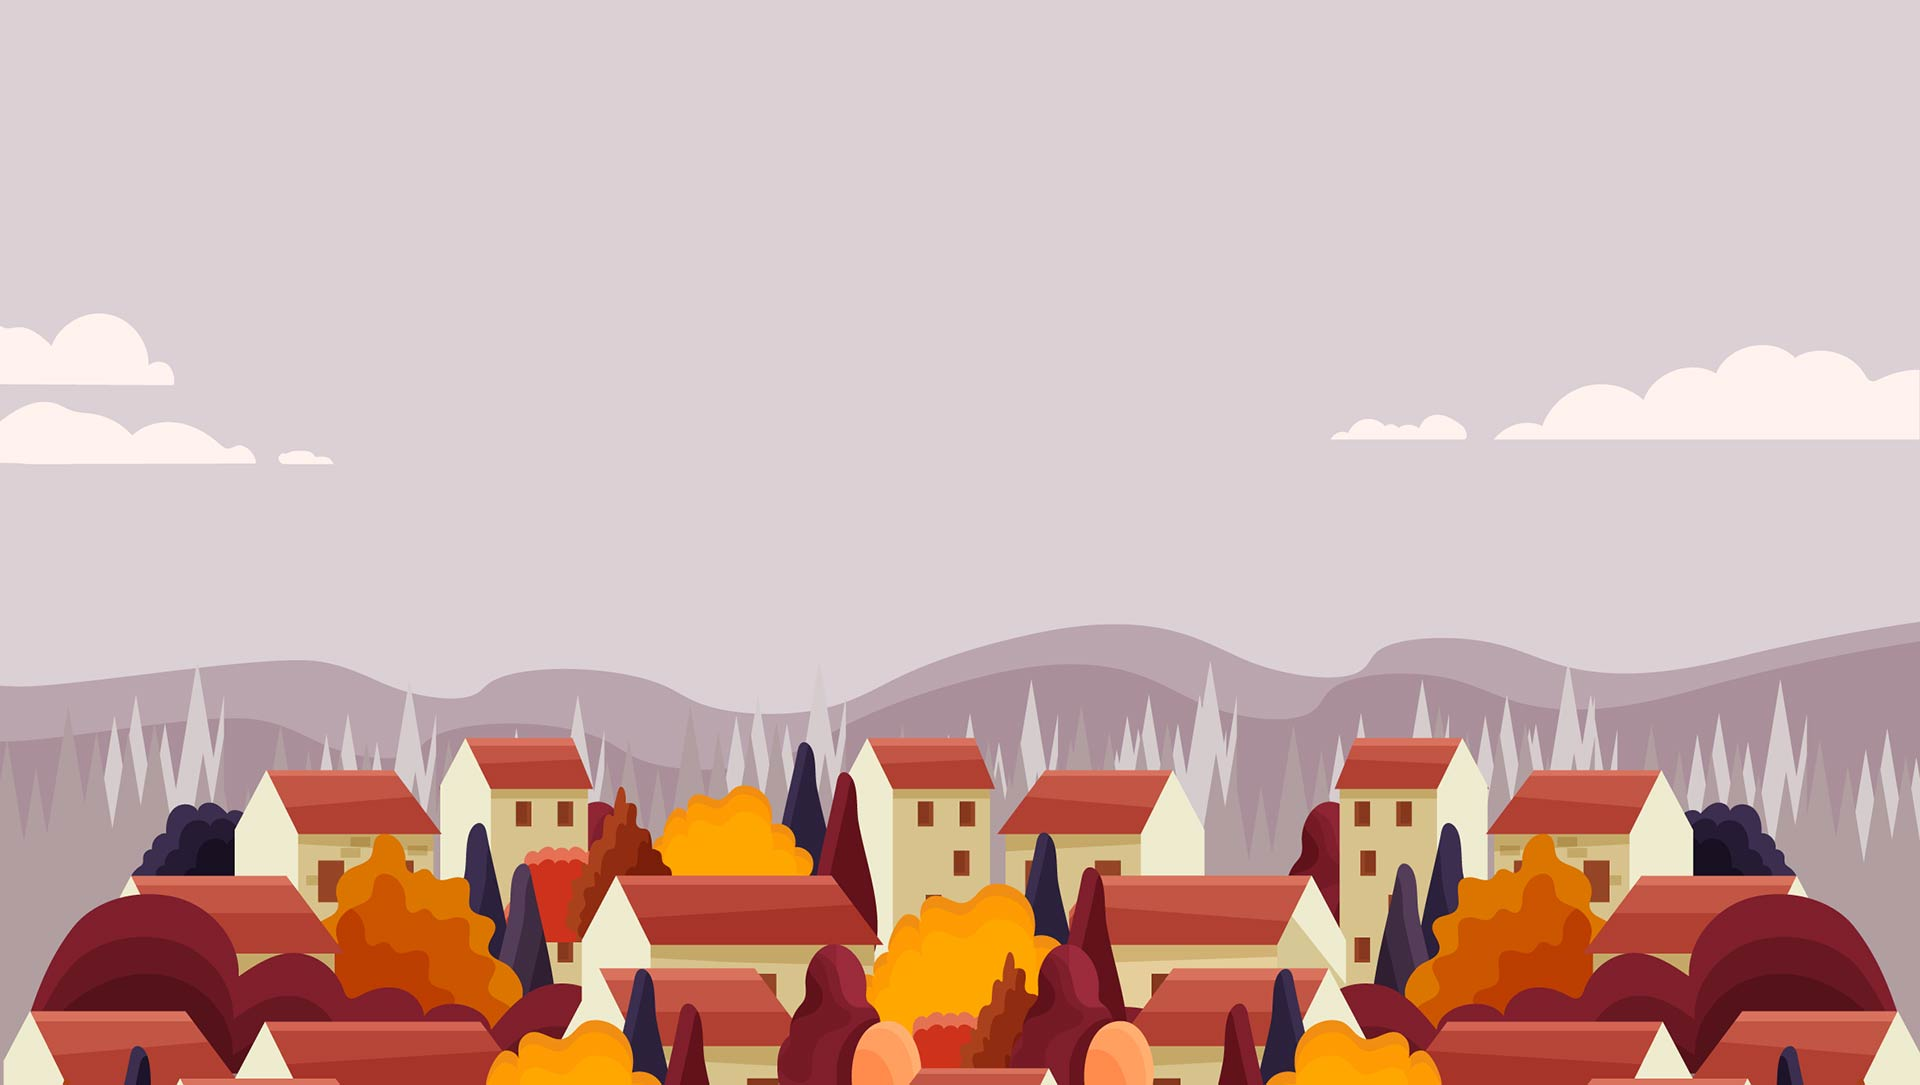
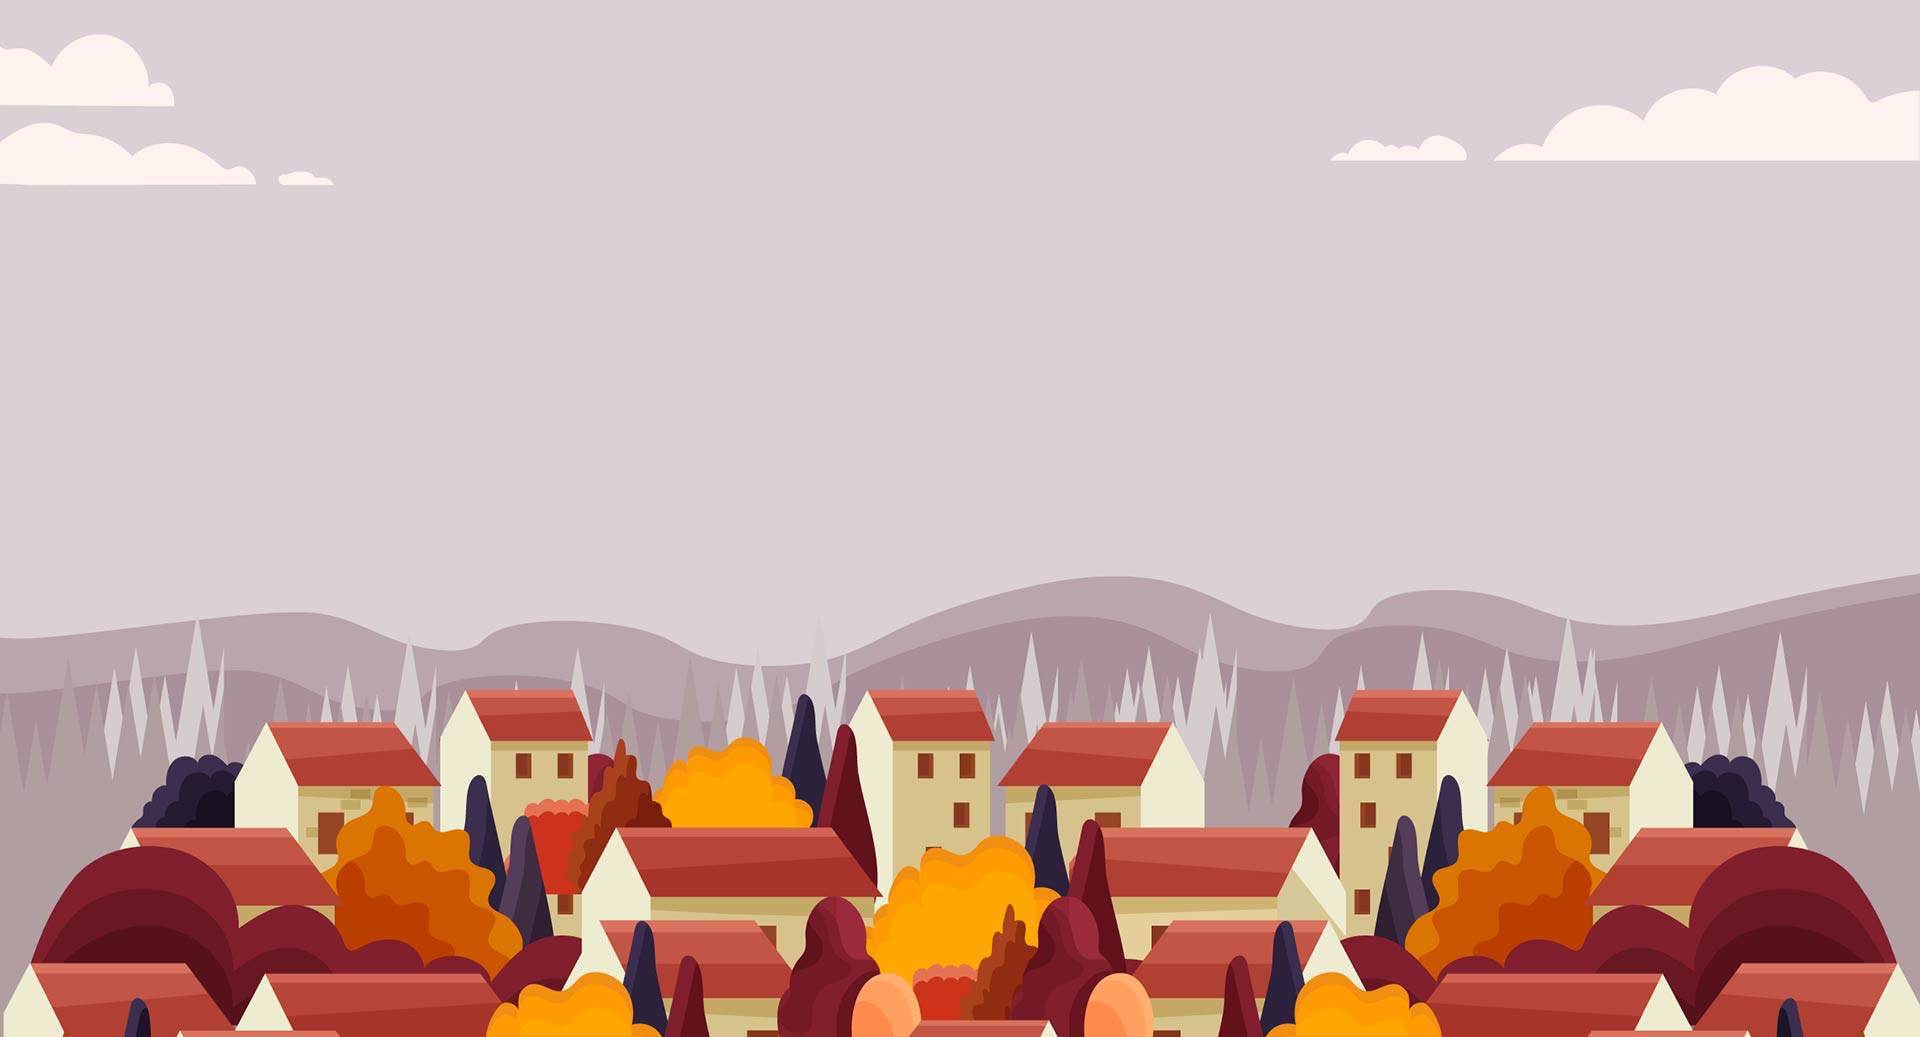
adding cloud links

diff --git a/new.html b/new.html
@@ -100,15 +100,25 @@ h1.pacifico {
 	color: #3c2e4f;
 	font-size: 120px;
 	letter-spacing: .5px;
+    padding-top: 60px;
 }
 h1.pacifico span {
 	padding-left: 14px;
 	letter-spacing: -18px;
 }
+    .item-wrapper {
+        display: flex;
+        
+    align-content: center;
+        margin-top: 100px;
+    }
+    .item {
+        margin: 0 20px;
+        flex: 1;
+    }
 .row-wrapper {
 	background: #dbd0d5 url("landscape.jpg") bottom center/cover;
-}
-
+    
 }
 .leaves-one {
 	height: 100vh;
@@ -139,22 +149,6 @@ background-position: 0 0;
 @keyframes fall {
 from {
 background-position: 0 -900px;
-}
-to {
-background-position: 0 0;
-}
-}
-@-webkit-keyframes scroll {
-from {
-background-position: -3000px 0;
-}
-to {
-background-position: 0 0;
-}
-}
-@keyframes scroll {
-from {
-background-position: -3000px 0;
 }
 to {
 background-position: 0 0;
@@ -351,12 +345,15 @@ height="0" width="0" style="display:none;visibility:hidden"></iframe>
   <div class="row row-wrapper">
     <div class="leaves-one">
       <div class="leaves-two">
-        <div class="leaves-three">    
-      <div class="container text-center padding-top-30">
-        <h1 class="pacifico">Let<span>'</span>s Get Cozy</h1>
-      </div>
-   
-          <div class="house-row"></div>
+        <div class="leaves-three">
+          <div class="container-md text-center">
+            <h1 class="pacifico">Let<span>'</span>s Get Cozy</h1>
+            <div class="item-wrapper">
+              <div class="item"><img class="img-responsive" src="cloud-one.png"></div>
+              <div class="item"><img class="img-responsive" src="cloud-two.png"></div>
+              <div class="item"><img class="img-responsive" src="cloud-three.png"></div>
+            </div>
+          </div>
         </div>
       </div>
     </div>
